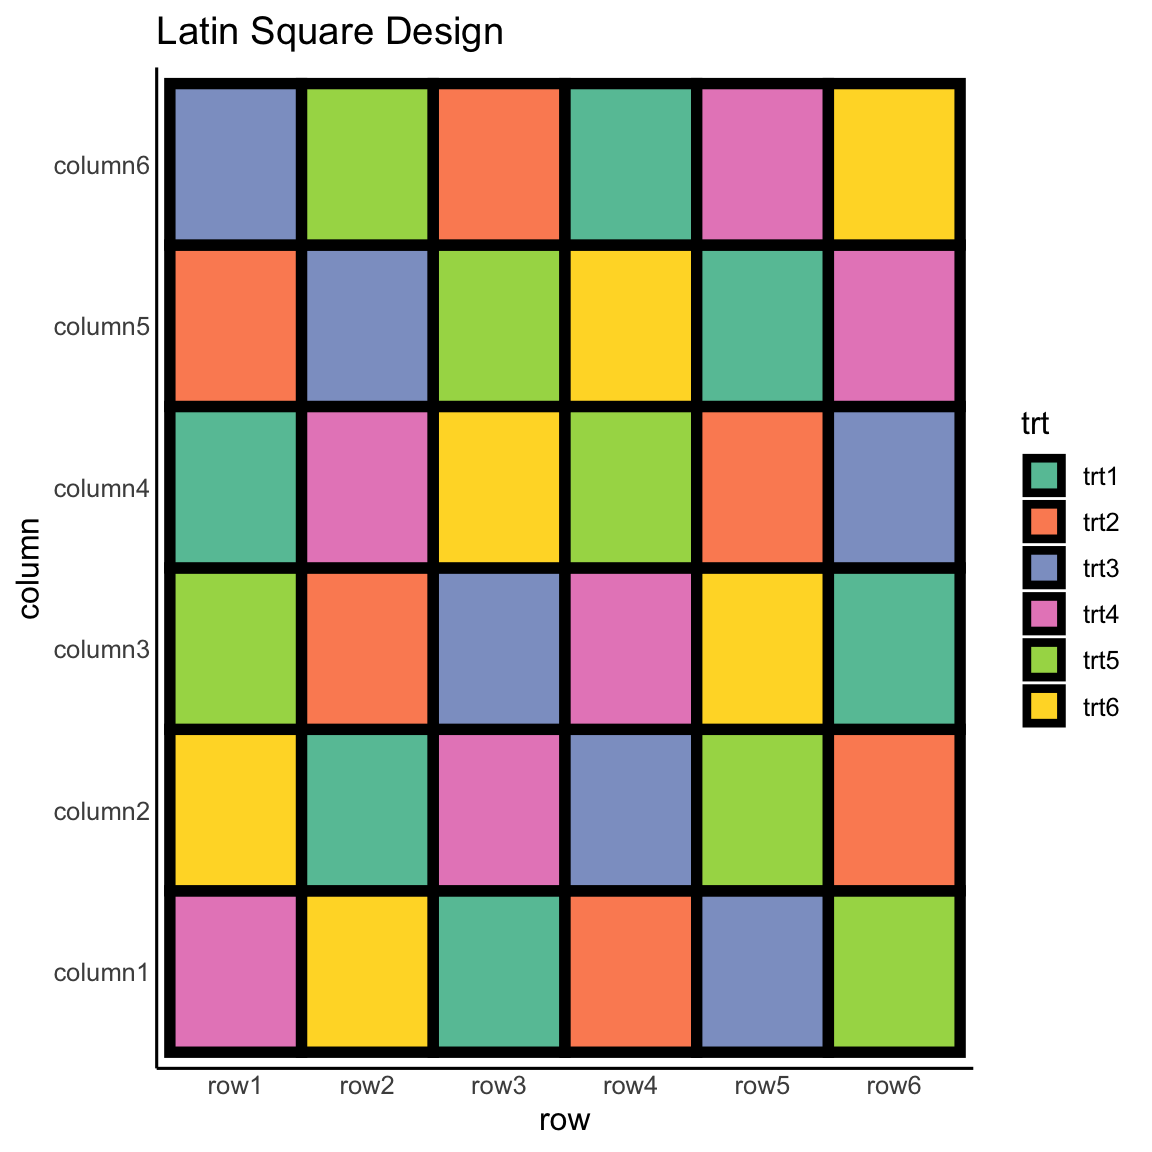
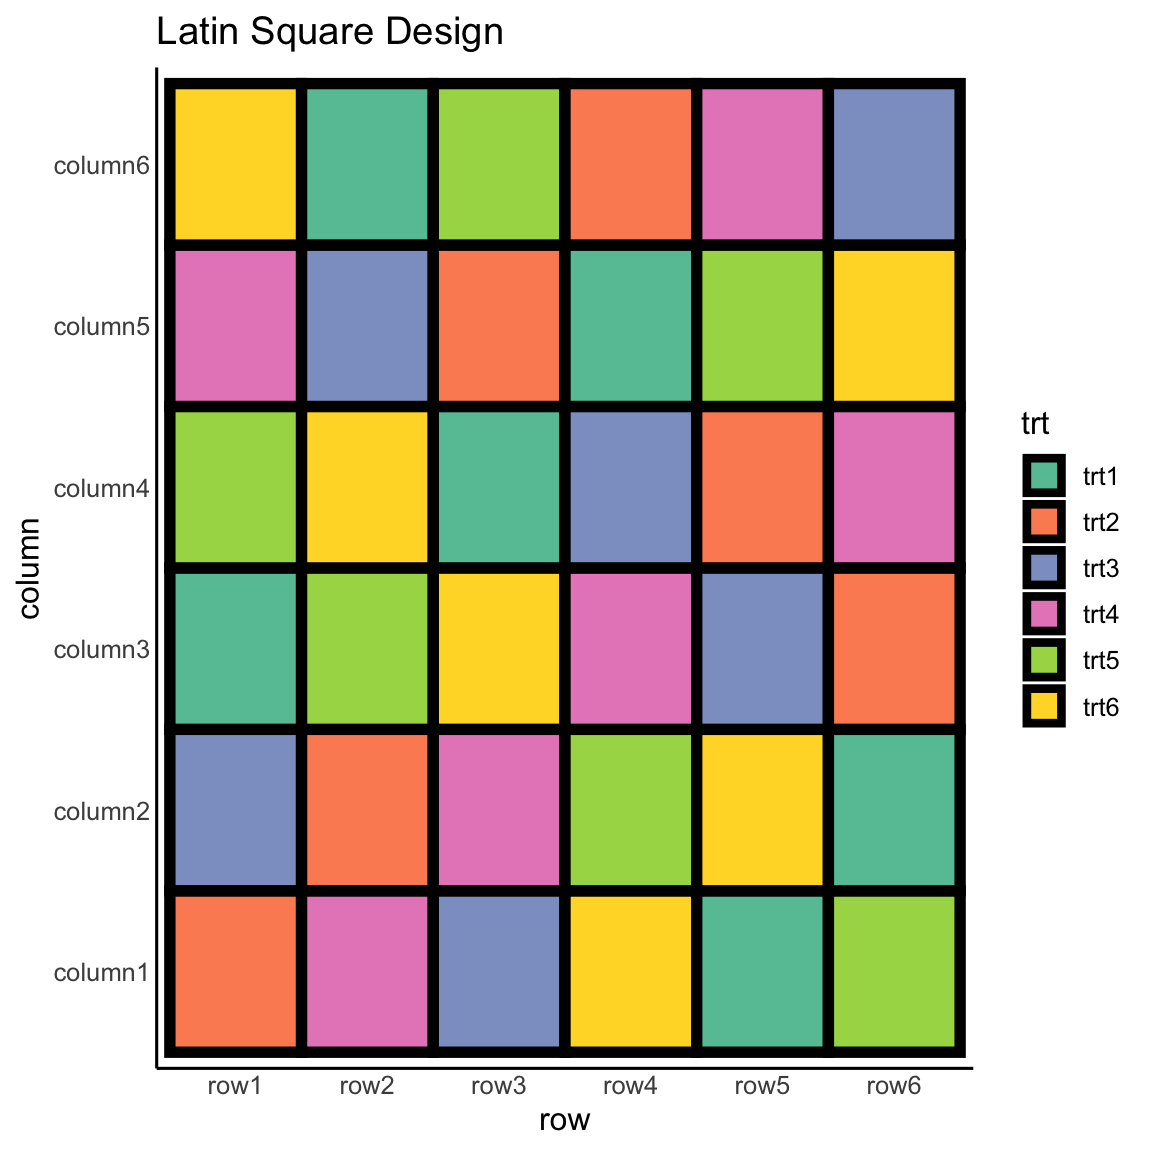
cookbook recipes switched to menu + takeout

diff --git a/docs/cookbook.html b/docs/cookbook.html
@@ -57,34 +57,26 @@
 <p>– Bailey, 2008, Design of Comparative experiments</p>
 </div>
 <p>This chapter presents a number of recipes for some well known named experimental designs. The ingredients for each recipe are described in basic terminology (see Section <a href="basics.html#terminology">1.1</a>).</p>
-<p>It is well understood that an experimental design shouldn’t just be simply selected from a recipe. Nonetheless, the use of named experimental designs are prevalent and so a compromising approach is used in the <code>edibble</code> system. For every named experimental design presented, there will be a function prefixed by <code>prep_classical_</code> to prepare the code in terms of the fundamental system. The user is supposed to copy-and-paste these code and modify the names of the units and treatments to their experimental context. You can choose to generate a design table using <code><a href="https://edibble.emitanaka.org/reference/make_classical.html">make_classical()</a></code>, but again I discourage you to use these approaches to generate a proper design.</p>
+<p>It is well understood that an experimental design shouldn’t just be simply selected from a recipe. Nonetheless, the use of named experimental designs are prevalent and so a compromising approach is used in the <code>edibble</code> system. For every named experimental design presented, there will be a function prefixed by <code>menu_</code> to prepare the recipe code. The user is supposed to copy-and-paste these code and modify the names of the units and treatments to their experimental context. You can choose to generate a design table using <code><a href="https://edibble.emitanaka.org/reference/takeout.html">takeout()</a></code>, but again I discourage you to use these approaches to generate a proper design.</p>
 <p>Named experimental design are handy in succinctly describing the experimental structure and treatment allotment to units, but you lose the direct association to the fundamental components that make up the experimental design. This can obscure seeing the association between different named experimental designs. Another reason that I discourage you to use named experimental designs is that it encourages users to fit the experimental resources to suit one of the named experimental design. In other words, the primal goal is no longer about fitting an appropriate design for the given experimental resources but it becomes about adjusting your resources to fit the design. This is not to say that experimental resources cannot be modified for a more desirable design.</p>
 <div id="completely-randomised-design" class="section level2" number="4.1">
 <h2>
 <span class="header-section-number">4.1</span> Completely randomised design<a class="anchor" aria-label="anchor" href="#completely-randomised-design"><i class="fas fa-link"></i></a>
 </h2>
 <p>A completely randomised design, commonly abbreviated as CRD, contain two factors: experimental units and treatments with a completely unstructured experiment (i.e. no grouping for the factors).</p>
-<p>You can call on <code><a href="https://edibble.emitanaka.org/reference/prep_classical_crd.html">prep_classical_crd()</a></code> to see the code in the terms of the fundamental system. If you omit the argument values, then a random number will be selected for you.</p>
+<p>You can call on <code><a href="https://edibble.emitanaka.org/reference/menu_crd.html">menu_crd()</a></code> to see the code in the terms of the fundamental system. If you omit the argument values, then a random number will be selected for you.</p>
 <div class="sourceCode" id="cb1"><pre class="downlit sourceCode r">
-<code class="sourceCode R"><span class="fu"><a href="https://edibble.emitanaka.org/reference/prep_classical_crd.html">prep_classical_crd</a></span><span class="op">(</span>t <span class="op">=</span> <span class="fl">5</span>, n <span class="op">=</span> <span class="fl">30</span>, seed <span class="op">=</span> <span class="fl">1</span><span class="op">)</span></code></pre></div>
+<code class="sourceCode R"><span class="fu"><a href="https://edibble.emitanaka.org/reference/menu_crd.html">menu_crd</a></span><span class="op">(</span>t <span class="op">=</span> <span class="fl">5</span>, n <span class="op">=</span> <span class="fl">30</span>, seed <span class="op">=</span> <span class="fl">1</span><span class="op">)</span></code></pre></div>
 <pre><code>start_design("Completely Randomised Design") %&gt;%
   set_units(unit = 30) %&gt;%
   set_trts(trt = 5) %&gt;%
   allot_trts(trt ~ unit) %&gt;%
   assign_trts("random", seed = 1) %&gt;%
   serve_table()</code></pre>
-<p>If you want to generate the design table, then you can use the <code><a href="https://edibble.emitanaka.org/reference/make_classical.html">make_classical()</a></code> function parsing the short name of the named experimental design. There are three outputs shown by default:</p>
-<ol style="list-style-type: lower-roman">
-<li>
-<code>info</code>: selected information about the named experimental design,</li>
-<li>
-<code>code</code>: the code in terms of the fundamental system, and</li>
-<li>
-<code>table</code>: the design table.</li>
-</ol>
+<p>If you want to generate the design table, then you can use the <code><a href="https://edibble.emitanaka.org/reference/takeout.html">takeout()</a></code> function parsing the named design object created by the set of <code>menu_</code> functions.</p>
 <p>Below we choose not to print any output.</p>
 <div class="sourceCode" id="cb3"><pre class="downlit sourceCode r">
-<code class="sourceCode R"><span class="va">crd</span> <span class="op">&lt;-</span> <span class="fu"><a href="https://edibble.emitanaka.org/reference/make_classical.html">make_classical</a></span><span class="op">(</span><span class="st">"crd"</span>, t <span class="op">=</span> <span class="fl">5</span>, n <span class="op">=</span> <span class="fl">30</span>, seed <span class="op">=</span> <span class="fl">1</span>, .output <span class="op">=</span> <span class="cn">FALSE</span><span class="op">)</span></code></pre></div>
+<code class="sourceCode R"><span class="va">crd</span> <span class="op">&lt;-</span> <span class="fu"><a href="https://edibble.emitanaka.org/reference/takeout.html">takeout</a></span><span class="op">(</span><span class="fu"><a href="https://edibble.emitanaka.org/reference/menu_crd.html">menu_crd</a></span><span class="op">(</span>t <span class="op">=</span> <span class="fl">5</span>, n <span class="op">=</span> <span class="fl">30</span>, seed <span class="op">=</span> <span class="fl">1</span><span class="op">)</span><span class="op">)</span></code></pre></div>
 <p>You can quickly plot the design using the <code><a href="https://ggplot2.tidyverse.org/reference/autoplot.html">autoplot()</a></code> in the <code>deggust</code> package.</p>
 <div class="sourceCode" id="cb4"><pre class="downlit sourceCode r">
 <code class="sourceCode R"><span class="fu">deggust</span><span class="fu">::</span><span class="fu"><a href="https://ggplot2.tidyverse.org/reference/autoplot.html">autoplot</a></span><span class="op">(</span><span class="va">crd</span><span class="op">)</span></code></pre></div>
@@ -95,14 +87,15 @@
 <span class="header-section-number">4.2</span> Randomised complete block design<a class="anchor" aria-label="anchor" href="#randomised-complete-block-design"><i class="fas fa-link"></i></a>
 </h2>
 <div class="sourceCode" id="cb5"><pre class="downlit sourceCode r">
-<code class="sourceCode R"><span class="va">rcbd</span> <span class="op">&lt;-</span> <span class="fu"><a href="https://edibble.emitanaka.org/reference/make_classical.html">make_classical</a></span><span class="op">(</span><span class="st">"rcbd"</span>, .output <span class="op">=</span> <span class="st">"code"</span><span class="op">)</span></code></pre></div>
+<code class="sourceCode R"><span class="va">rcbd</span> <span class="op">&lt;-</span> <span class="fu"><a href="https://edibble.emitanaka.org/reference/takeout.html">takeout</a></span><span class="op">(</span><span class="fu"><a href="https://edibble.emitanaka.org/reference/menu_rcbd.html">menu_rcbd</a></span><span class="op">(</span>t <span class="op">=</span> <span class="fl">5</span>, r <span class="op">=</span> <span class="fl">3</span><span class="op">)</span><span class="op">)</span>
+<span class="fu"><a href="https://edibble.emitanaka.org/reference/examine_recipe.html">examine_recipe</a></span><span class="op">(</span><span class="va">rcbd</span><span class="op">)</span></code></pre></div>
 <pre><code>start_design("Randomised Complete Block Design") %&gt;%
-  set_units(block = 7,
-            unit = nested_in(block, 11)) %&gt;%
-  set_trts(trt = 11) %&gt;%
+  set_units(block = 3,
+            unit = nested_in(block, 5)) %&gt;%
+  set_trts(trt = 5) %&gt;%
   allot_trts(trt ~ unit) %&gt;%
-  assign_trts("random", seed = 554) %&gt;%
-  serve_table() </code></pre>
+  assign_trts("random", seed = 326) %&gt;%
+  serve_table()</code></pre>
 <div class="sourceCode" id="cb7"><pre class="downlit sourceCode r">
 <code class="sourceCode R"><span class="fu">deggust</span><span class="fu">::</span><span class="fu"><a href="https://ggplot2.tidyverse.org/reference/autoplot.html">autoplot</a></span><span class="op">(</span><span class="va">rcbd</span><span class="op">)</span></code></pre></div>
 <div class="inline-figure"><img src="edibble-book_files/figure-html/autoplot-rcbd-1.png" width="576"></div>
@@ -112,15 +105,16 @@
 <span class="header-section-number">4.3</span> Latin square design<a class="anchor" aria-label="anchor" href="#latin-square-design"><i class="fas fa-link"></i></a>
 </h2>
 <div class="sourceCode" id="cb8"><pre class="downlit sourceCode r">
-<code class="sourceCode R"><span class="va">lsd</span> <span class="op">&lt;-</span> <span class="fu"><a href="https://edibble.emitanaka.org/reference/make_classical.html">make_classical</a></span><span class="op">(</span><span class="st">"lsd"</span>, t <span class="op">=</span> <span class="fl">6</span>, .output <span class="op">=</span> <span class="st">"code"</span><span class="op">)</span></code></pre></div>
+<code class="sourceCode R"><span class="va">lsd</span> <span class="op">&lt;-</span> <span class="fu"><a href="https://edibble.emitanaka.org/reference/takeout.html">takeout</a></span><span class="op">(</span><span class="fu"><a href="https://edibble.emitanaka.org/reference/menu_lsd.html">menu_lsd</a></span><span class="op">(</span>t <span class="op">=</span> <span class="fl">6</span><span class="op">)</span><span class="op">)</span>
+<span class="fu"><a href="https://edibble.emitanaka.org/reference/examine_recipe.html">examine_recipe</a></span><span class="op">(</span><span class="va">lsd</span><span class="op">)</span></code></pre></div>
 <pre><code>start_design("Latin Square Design") %&gt;%
   set_units(row = 6,
             column = 6,
             unit = ~row:column) %&gt;%
   set_trts(trt = 6) %&gt;%
   allot_trts(trt ~ unit) %&gt;%
-  assign_trts("random", seed = 267) %&gt;%
-  serve_table() </code></pre>
+  assign_trts("random", seed = 712) %&gt;%
+  serve_table()</code></pre>
 <div class="sourceCode" id="cb10"><pre class="downlit sourceCode r">
 <code class="sourceCode R"><span class="fu">deggust</span><span class="fu">::</span><span class="fu"><a href="https://ggplot2.tidyverse.org/reference/autoplot.html">autoplot</a></span><span class="op">(</span><span class="va">lsd</span><span class="op">)</span></code></pre></div>
 <div class="inline-figure"><img src="edibble-book_files/figure-html/autoplot-lsd-1.png" width="576"></div>
@@ -130,63 +124,70 @@
 <span class="header-section-number">4.4</span> Factorial design<a class="anchor" aria-label="anchor" href="#factorial-design"><i class="fas fa-link"></i></a>
 </h2>
 <div class="sourceCode" id="cb11"><pre class="downlit sourceCode r">
-<code class="sourceCode R"><span class="va">fac</span> <span class="op">&lt;-</span> <span class="fu"><a href="https://edibble.emitanaka.org/reference/make_classical.html">make_classical</a></span><span class="op">(</span><span class="st">"factorial"</span>, .output <span class="op">=</span> <span class="st">"code"</span><span class="op">)</span></code></pre></div>
+<code class="sourceCode R"><span class="va">fac</span> <span class="op">&lt;-</span> <span class="fu"><a href="https://edibble.emitanaka.org/reference/takeout.html">takeout</a></span><span class="op">(</span><span class="fu"><a href="https://edibble.emitanaka.org/reference/menu_factorial.html">menu_factorial</a></span><span class="op">(</span>trt <span class="op">=</span> <span class="fu"><a href="https://rdrr.io/r/base/c.html">c</a></span><span class="op">(</span><span class="fl">3</span>, <span class="fl">2</span><span class="op">)</span><span class="op">)</span><span class="op">)</span>
+<span class="fu"><a href="https://edibble.emitanaka.org/reference/examine_recipe.html">examine_recipe</a></span><span class="op">(</span><span class="va">fac</span><span class="op">)</span></code></pre></div>
 <pre><code>start_design("Factorial Design") %&gt;%
-  set_units(unit = 1210) %&gt;%
-  set_trts(trt1 = 10,
-           trt2 = 11) %&gt;%
+  set_units(unit = 42) %&gt;%
+  set_trts(trt1 = 3,
+           trt2 = 2) %&gt;%
   allot_trts(~unit) %&gt;%
-  assign_trts("random", seed = 150) %&gt;%
-  serve_table() </code></pre>
+  assign_trts("random", seed = 21) %&gt;%
+  serve_table()</code></pre>
+<div class="sourceCode" id="cb13"><pre class="downlit sourceCode r">
+<code class="sourceCode R"><span class="fu">deggust</span><span class="fu">::</span><span class="fu"><a href="https://ggplot2.tidyverse.org/reference/autoplot.html">autoplot</a></span><span class="op">(</span><span class="va">fac</span><span class="op">)</span></code></pre></div>
+<div class="inline-figure"><img src="edibble-book_files/figure-html/autoplot-fac-1.png" width="576"></div>
 </div>
 <div id="split-plot-design" class="section level2" number="4.5">
 <h2>
 <span class="header-section-number">4.5</span> Split-plot design<a class="anchor" aria-label="anchor" href="#split-plot-design"><i class="fas fa-link"></i></a>
 </h2>
-<div class="sourceCode" id="cb13"><pre class="downlit sourceCode r">
-<code class="sourceCode R"><span class="va">spd</span> <span class="op">&lt;-</span> <span class="fu"><a href="https://edibble.emitanaka.org/reference/make_classical.html">make_classical</a></span><span class="op">(</span><span class="st">"split"</span>, .output <span class="op">=</span> <span class="st">"code"</span><span class="op">)</span></code></pre></div>
+<div class="sourceCode" id="cb14"><pre class="downlit sourceCode r">
+<code class="sourceCode R"><span class="va">spd</span> <span class="op">&lt;-</span> <span class="fu"><a href="https://edibble.emitanaka.org/reference/takeout.html">takeout</a></span><span class="op">(</span><span class="fu"><a href="https://edibble.emitanaka.org/reference/menu_split.html">menu_split</a></span><span class="op">(</span><span class="op">)</span><span class="op">)</span>
+<span class="fu"><a href="https://edibble.emitanaka.org/reference/examine_recipe.html">examine_recipe</a></span><span class="op">(</span><span class="va">spd</span><span class="op">)</span></code></pre></div>
 <pre><code>start_design("Split-Plot Design | Split-Unit Design") %&gt;%
-  set_units(mainplot = 42,
-             subplot = nested_in(mainplot, 8)) %&gt;%
-  set_trts(trt1 = 7,
-           trt2 = 8) %&gt;%
+  set_units(mainplot = 33,
+             subplot = nested_in(mainplot, 3)) %&gt;%
+  set_trts(trt1 = 11,
+           trt2 = 3) %&gt;%
   allot_trts(trt1 ~ mainplot,
              trt2 ~ subplot) %&gt;%
-  assign_trts("random", seed = 661) %&gt;%
-  serve_table() </code></pre>
+  assign_trts("random", seed = 229) %&gt;%
+  serve_table()</code></pre>
 </div>
 <div id="graeco-latin-square-design" class="section level2" number="4.6">
 <h2>
 <span class="header-section-number">4.6</span> Graeco-Latin square design<a class="anchor" aria-label="anchor" href="#graeco-latin-square-design"><i class="fas fa-link"></i></a>
 </h2>
-<div class="sourceCode" id="cb15"><pre class="downlit sourceCode r">
-<code class="sourceCode R"><span class="va">graeco</span> <span class="op">&lt;-</span> <span class="fu"><a href="https://edibble.emitanaka.org/reference/make_classical.html">make_classical</a></span><span class="op">(</span><span class="st">"graeco"</span>, .output <span class="op">=</span> <span class="st">"code"</span><span class="op">)</span></code></pre></div>
+<div class="sourceCode" id="cb16"><pre class="downlit sourceCode r">
+<code class="sourceCode R"><span class="va">graeco</span> <span class="op">&lt;-</span> <span class="fu"><a href="https://edibble.emitanaka.org/reference/takeout.html">takeout</a></span><span class="op">(</span><span class="fu"><a href="https://edibble.emitanaka.org/reference/menu_graeco.html">menu_graeco</a></span><span class="op">(</span><span class="op">)</span><span class="op">)</span>
+<span class="fu"><a href="https://edibble.emitanaka.org/reference/examine_recipe.html">examine_recipe</a></span><span class="op">(</span><span class="va">graeco</span><span class="op">)</span></code></pre></div>
 <pre><code>start_design("Graeco-Latin Square Design") %&gt;%
-  set_units(row = 3,
-            column = 3,
+  set_units(row = 9,
+            column = 9,
             unit = ~row:column) %&gt;%
-  set_trts(trt1 = 3,
-           trt2 = 3) %&gt;%
+  set_trts(trt1 = 9,
+           trt2 = 9) %&gt;%
   allot_trts(trt1 ~ unit,
              trt2 ~ unit) %&gt;%
-  assign_trts("random", seed = 300) %&gt;%
-  serve_table() </code></pre>
+  assign_trts("random", seed = 209) %&gt;%
+  serve_table()</code></pre>
 </div>
 <div id="youden-square-design" class="section level2" number="4.7">
 <h2>
 <span class="header-section-number">4.7</span> Youden square design<a class="anchor" aria-label="anchor" href="#youden-square-design"><i class="fas fa-link"></i></a>
 </h2>
-<div class="sourceCode" id="cb17"><pre class="downlit sourceCode r">
-<code class="sourceCode R"><span class="va">youden</span> <span class="op">&lt;-</span> <span class="fu"><a href="https://edibble.emitanaka.org/reference/make_classical.html">make_classical</a></span><span class="op">(</span><span class="st">"youden"</span>, .output <span class="op">=</span> <span class="st">"code"</span><span class="op">)</span></code></pre></div>
+<div class="sourceCode" id="cb18"><pre class="downlit sourceCode r">
+<code class="sourceCode R"><span class="va">youden</span> <span class="op">&lt;-</span> <span class="fu"><a href="https://edibble.emitanaka.org/reference/takeout.html">takeout</a></span><span class="op">(</span><span class="fu"><a href="https://edibble.emitanaka.org/reference/menu_youden.html">menu_youden</a></span><span class="op">(</span><span class="op">)</span><span class="op">)</span>
+<span class="fu"><a href="https://edibble.emitanaka.org/reference/examine_recipe.html">examine_recipe</a></span><span class="op">(</span><span class="va">youden</span><span class="op">)</span></code></pre></div>
 <pre><code>start_design("Youden Square Design") %&gt;%
-  set_units(row = 14,
-            column = 8,
+  set_units(row = 11,
+            column = 7,
             unit = ~row:column) %&gt;%
-  set_trts(trt = 14) %&gt;%
+  set_trts(trt = 11) %&gt;%
   allot_trts(trt ~ unit) %&gt;%
-  assign_trts("random", seed = 934) %&gt;%
-  serve_table() </code></pre>
-<div class="sourceCode" id="cb19"><pre class="downlit sourceCode r">
+  assign_trts("random", seed = 22) %&gt;%
+  serve_table()</code></pre>
+<div class="sourceCode" id="cb20"><pre class="downlit sourceCode r">
 <code class="sourceCode R"><span class="fu">deggust</span><span class="fu">::</span><span class="fu"><a href="https://ggplot2.tidyverse.org/reference/autoplot.html">autoplot</a></span><span class="op">(</span><span class="va">youden</span><span class="op">)</span></code></pre></div>
 <div class="inline-figure"><img src="edibble-book_files/figure-html/autoplot-youden-1.png" width="672"></div>
 
@@ -213,7 +214,7 @@
 <footer class="bg-primary text-light mt-5"><div class="container"><div class="row">
 
   <div class="col-12 col-md-6 mt-3">
-    <p>"<strong>The Grammar of Experimental Designs</strong>" was written by Emi Tanaka. It was last built on 2022-01-26.</p>
+    <p>"<strong>The Grammar of Experimental Designs</strong>" was written by Emi Tanaka. It was last built on 2022-01-27.</p>
   </div>
 
   <div class="col-12 col-md-6 mt-3">

diff --git a/docs/basics.html b/docs/basics.html
@@ -188,7 +188,7 @@ A new statistical method is proposed as a better alternative for classification 
 <footer class="bg-primary text-light mt-5"><div class="container"><div class="row">
 
   <div class="col-12 col-md-6 mt-3">
-    <p>"<strong>The Grammar of Experimental Designs</strong>" was written by Emi Tanaka. It was last built on 2022-01-26.</p>
+    <p>"<strong>The Grammar of Experimental Designs</strong>" was written by Emi Tanaka. It was last built on 2022-01-27.</p>
   </div>
 
   <div class="col-12 col-md-6 mt-3">

diff --git a/docs/404.html b/docs/404.html
@@ -106,7 +106,7 @@ the table of contents to find the page you are looking for.</p>
   <div class="container"><div class="row">
 
   <div class="col-12 col-md-6 mt-3">
-    <p>"<strong>The Grammar of Experimental Designs</strong>" was written by Emi Tanaka. It was last built on 2022-01-26.</p>
+    <p>"<strong>The Grammar of Experimental Designs</strong>" was written by Emi Tanaka. It was last built on 2022-01-27.</p>
   </div>
 
   <div class="col-12 col-md-6 mt-3">

diff --git a/docs/preface.html b/docs/preface.html
@@ -100,7 +100,7 @@
 <footer class="bg-primary text-light mt-5"><div class="container"><div class="row">
 
   <div class="col-12 col-md-6 mt-3">
-    <p>"<strong>The Grammar of Experimental Designs</strong>" was written by Emi Tanaka. It was last built on 2022-01-26.</p>
+    <p>"<strong>The Grammar of Experimental Designs</strong>" was written by Emi Tanaka. It was last built on 2022-01-27.</p>
   </div>
 
   <div class="col-12 col-md-6 mt-3">

diff --git a/docs/start.html b/docs/start.html
@@ -340,7 +340,7 @@
 <footer class="bg-primary text-light mt-5"><div class="container"><div class="row">
 
   <div class="col-12 col-md-6 mt-3">
-    <p>"<strong>The Grammar of Experimental Designs</strong>" was written by Emi Tanaka. It was last built on 2022-01-26.</p>
+    <p>"<strong>The Grammar of Experimental Designs</strong>" was written by Emi Tanaka. It was last built on 2022-01-27.</p>
   </div>
 
   <div class="col-12 col-md-6 mt-3">

diff --git a/docs/index.html b/docs/index.html
@@ -84,7 +84,7 @@
 <footer class="bg-primary text-light mt-5"><div class="container"><div class="row">
 
   <div class="col-12 col-md-6 mt-3">
-    <p>"<strong>The Grammar of Experimental Designs</strong>" was written by Emi Tanaka. It was last built on 2022-01-26.</p>
+    <p>"<strong>The Grammar of Experimental Designs</strong>" was written by Emi Tanaka. It was last built on 2022-01-27.</p>
   </div>
 
   <div class="col-12 col-md-6 mt-3">

diff --git a/docs/people.html b/docs/people.html
@@ -90,7 +90,7 @@
 <footer class="bg-primary text-light mt-5"><div class="container"><div class="row">
 
   <div class="col-12 col-md-6 mt-3">
-    <p>"<strong>The Grammar of Experimental Designs</strong>" was written by Emi Tanaka. It was last built on 2022-01-26.</p>
+    <p>"<strong>The Grammar of Experimental Designs</strong>" was written by Emi Tanaka. It was last built on 2022-01-27.</p>
   </div>
 
   <div class="col-12 col-md-6 mt-3">
